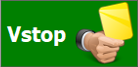
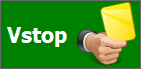
OCR implemented

diff --git a/OcrReader.cs b/OcrReader.cs
@@ -1,0 +1,102 @@
+using System.Drawing;
+using Tesseract;
+
+namespace ScreenAutoClicker;
+
+class OcrReader : IDisposable
+{
+    private TesseractEngine? _engine;
+
+    public bool IsAvailable => _engine != null;
+
+    public OcrReader(string tessDataPath = "tessdata", string language = "eng")
+    {
+        try
+        {
+            // TesseractOnly: whitelist deluje samo z legacy engine, ne z LSTM
+            _engine = new TesseractEngine(tessDataPath, language, EngineMode.TesseractOnly);
+            _engine.SetVariable("tessedit_char_whitelist", "0123456789");
+        }
+        catch (Exception ex)
+        {
+            Console.WriteLine($"[OCR] Opozorilo: Tesseract ni na voljo ({ex.Message})");
+            Console.WriteLine("[OCR] Prenesi eng.traineddata in ga shrani v mapo 'tessdata/'");
+            _engine = null;
+        }
+    }
+
+    public string ReadNumber(Bitmap image, string? debugSavePath = null)
+    {
+        if (_engine == null) return "N/A";
+
+        try
+        {
+            using var prepared = Preprocess(image);
+
+            if (debugSavePath != null)
+                prepared.Save(debugSavePath);
+
+            using var ms = new System.IO.MemoryStream();
+            prepared.Save(ms, System.Drawing.Imaging.ImageFormat.Png);
+            using var pix = Pix.LoadFromMemory(ms.ToArray());
+            using var page = _engine.Process(pix, PageSegMode.SingleWord);
+            var text = page.GetText().Trim().Replace("\n", "").Replace(" ", "");
+            // Obdrži samo cifre (whitelist backup)
+            text = new string(text.Where(char.IsDigit).ToArray());
+            return string.IsNullOrEmpty(text) ? "?" : text;
+        }
+        catch (Exception ex)
+        {
+            return $"ERR:{ex.Message}";
+        }
+    }
+
+    private static Bitmap Preprocess(Bitmap src)
+    {
+        int pad = 10;
+        int scale = 4;
+        int outW = (src.Width + pad * 2) * scale;
+        int outH = (src.Height + pad * 2) * scale;
+
+        var scaled = new Bitmap(outW, outH);
+        using (var g = Graphics.FromImage(scaled))
+        {
+            g.Clear(Color.White);
+            g.InterpolationMode = System.Drawing.Drawing2D.InterpolationMode.HighQualityBicubic;
+            g.PixelOffsetMode = System.Drawing.Drawing2D.PixelOffsetMode.HighQuality;
+            g.DrawImage(src,
+                new Rectangle(pad * scale, pad * scale, src.Width * scale, src.Height * scale),
+                new Rectangle(0, 0, src.Width, src.Height),
+                GraphicsUnit.Pixel);
+        }
+
+        // Binarizacija: pretvori v čisto črno/belo za boljši OCR
+        var data = scaled.LockBits(
+            new Rectangle(0, 0, scaled.Width, scaled.Height),
+            System.Drawing.Imaging.ImageLockMode.ReadWrite,
+            System.Drawing.Imaging.PixelFormat.Format32bppArgb);
+        unsafe
+        {
+            byte* ptr = (byte*)data.Scan0;
+            int stride = data.Stride;
+            for (int y = 0; y < scaled.Height; y++)
+            {
+                for (int x = 0; x < scaled.Width; x++)
+                {
+                    int offset = y * stride + x * 4;
+                    int brightness = (ptr[offset] + ptr[offset + 1] + ptr[offset + 2]) / 3;
+                    byte val = brightness < 128 ? (byte)0 : (byte)255;
+                    ptr[offset] = val;     // B
+                    ptr[offset + 1] = val; // G
+                    ptr[offset + 2] = val; // R
+                    ptr[offset + 3] = 255; // A
+                }
+            }
+        }
+        scaled.UnlockBits(data);
+
+        return scaled;
+    }
+
+    public void Dispose() => _engine?.Dispose();
+}

diff --git a/Program.cs b/Program.cs
@@ -101,6 +101,27 @@ public class AutoClickerConfig
 
     [XmlElement("ClickDelayMs")]
     public int ClickDelayMs { get; set; }
+
+    [XmlElement("OcrEnabled")]
+    public bool OcrEnabled { get; set; }
+
+    [XmlElement("OcrRegion1X")]
+    public int OcrRegion1X { get; set; }
+    [XmlElement("OcrRegion1Y")]
+    public int OcrRegion1Y { get; set; }
+    [XmlElement("OcrRegion1Width")]
+    public int OcrRegion1Width { get; set; }
+    [XmlElement("OcrRegion1Height")]
+    public int OcrRegion1Height { get; set; }
+
+    [XmlElement("OcrRegion2X")]
+    public int OcrRegion2X { get; set; }
+    [XmlElement("OcrRegion2Y")]
+    public int OcrRegion2Y { get; set; }
+    [XmlElement("OcrRegion2Width")]
+    public int OcrRegion2Width { get; set; }
+    [XmlElement("OcrRegion2Height")]
+    public int OcrRegion2Height { get; set; }
 }
 
 public static class ConfigLoader
@@ -131,7 +152,10 @@ public static class ConfigLoader
             CheckIntervalMs = 3000,
             MatchTolerance = 30,
             DebugMode = false,
-            ClickDelayMs = 3000
+            ClickDelayMs = 3000,
+            OcrEnabled = false,
+            OcrRegion1X = 0, OcrRegion1Y = 0, OcrRegion1Width = 40, OcrRegion1Height = 20,
+            OcrRegion2X = 0, OcrRegion2Y = 0, OcrRegion2Width = 40, OcrRegion2Height = 20
         };
 
         var serializer = new XmlSerializer(typeof(AutoClickerConfig));
@@ -146,6 +170,7 @@ class AutoClicker
     private readonly ImageMatcher _imageMatcher;
     private readonly MouseController _mouseController;
     private readonly Bitmap _templateImage;
+    private readonly OcrReader? _ocrReader;
 
     public AutoClicker(AutoClickerConfig config)
     {
@@ -153,6 +178,8 @@ class AutoClicker
         _imageMatcher = new ImageMatcher();
         _mouseController = new MouseController();
         _templateImage = new Bitmap(config.TemplateImagePath);
+        if (config.OcrEnabled)
+            _ocrReader = new OcrReader();
     }
 
     public async Task StartAsync()
@@ -189,6 +216,23 @@ class AutoClicker
                     screenshot.Save(debugPath);
                 }
 
+                // OCR: preberi dve številki
+                if (_config.OcrEnabled && _ocrReader != null)
+                {
+                    using var ocr1 = ScreenCapture.CaptureRegion(_config.OcrRegion1X, _config.OcrRegion1Y, _config.OcrRegion1Width, _config.OcrRegion1Height);
+                    using var ocr2 = ScreenCapture.CaptureRegion(_config.OcrRegion2X, _config.OcrRegion2Y, _config.OcrRegion2Width, _config.OcrRegion2Height);
+
+                    if (_config.DebugMode)
+                    {
+                        ocr1.Save($"debug_screenshots/ocr1_{checkCount:D4}.png");
+                        ocr2.Save($"debug_screenshots/ocr2_{checkCount:D4}.png");
+                    }
+
+                    string val1 = _ocrReader.ReadNumber(ocr1, _config.DebugMode ? $"debug_screenshots/ocr1_{checkCount:D4}_prep.png" : null);
+                    string val2 = _ocrReader.ReadNumber(ocr2, _config.DebugMode ? $"debug_screenshots/ocr2_{checkCount:D4}_prep.png" : null);
+                    Console.WriteLine($"[{DateTime.Now:HH:mm:ss}] OCR → Številka 1: {val1}  |  Številka 2: {val2}");
+                }
+
                 // Preveri, če se slika ujema
                 var matchResult = _imageMatcher.IsMatchWithDetails(screenshot, _templateImage, _config.MatchTolerance);
 
@@ -202,7 +246,7 @@ class AutoClicker
                     Console.WriteLine($"[{DateTime.Now:HH:mm:ss}] Klikam na ({_config.ClickX}, {_config.ClickY})");
 
                     // Premakni miško in klikni
-                    _mouseController.Click(_config.ClickX, _config.ClickY);
+                    //_mouseController.Click(_config.ClickX, _config.ClickY);
                 }
                 else
                 {
@@ -228,6 +272,7 @@ class AutoClicker
         }
 
         _templateImage.Dispose();
+        _ocrReader?.Dispose();
         Console.WriteLine($"\nZaključeno. Skupaj pregledov: {checkCount}, Ujemanj: {matchCount}");
     }
 }